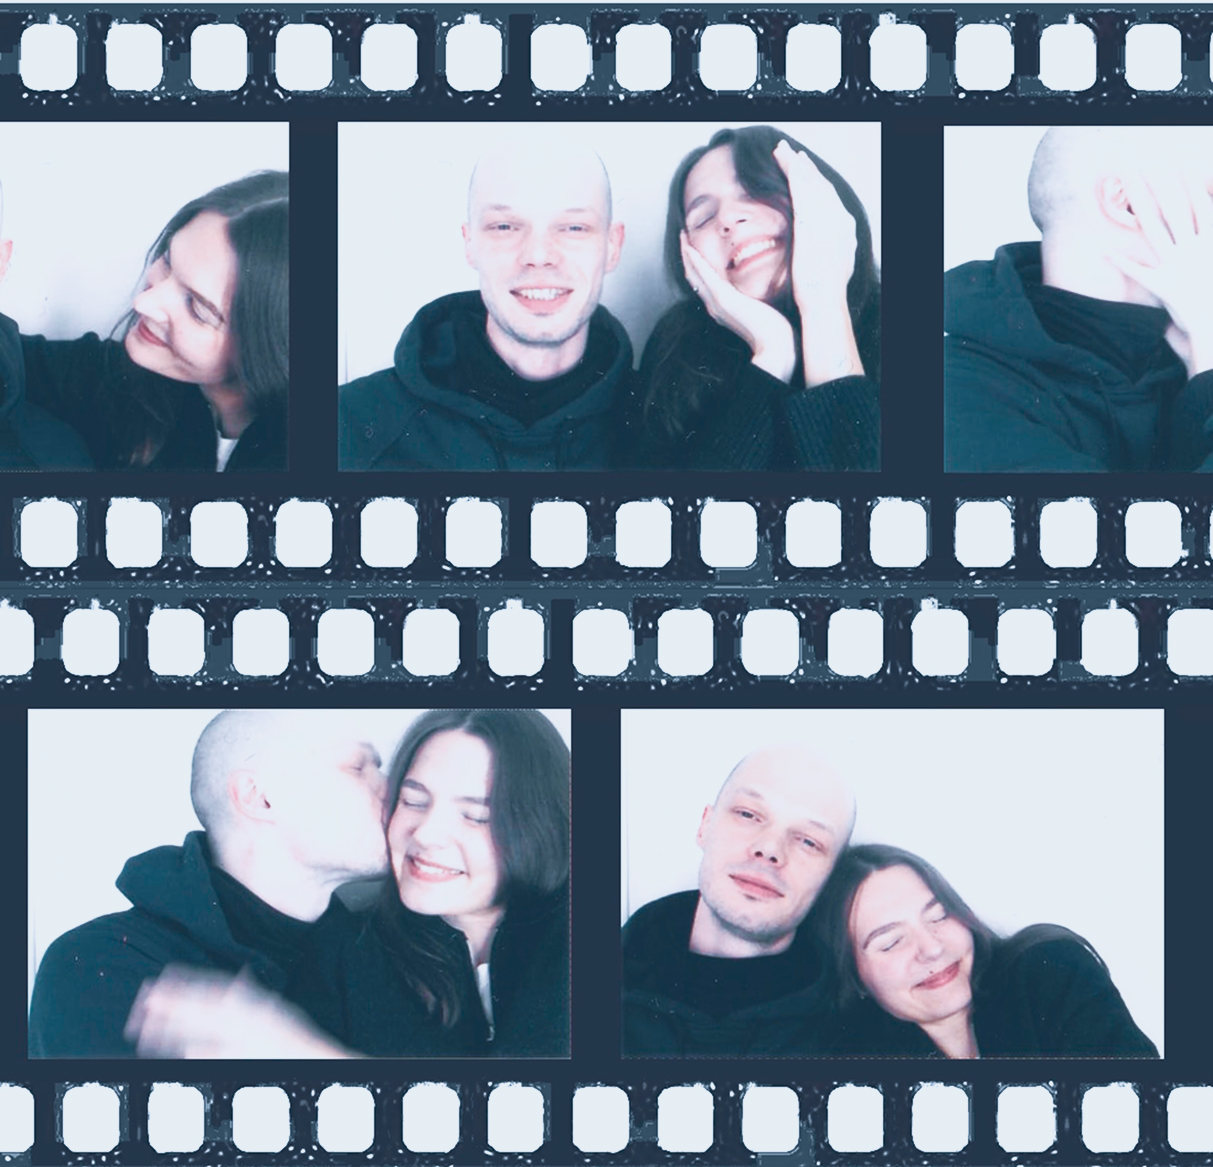
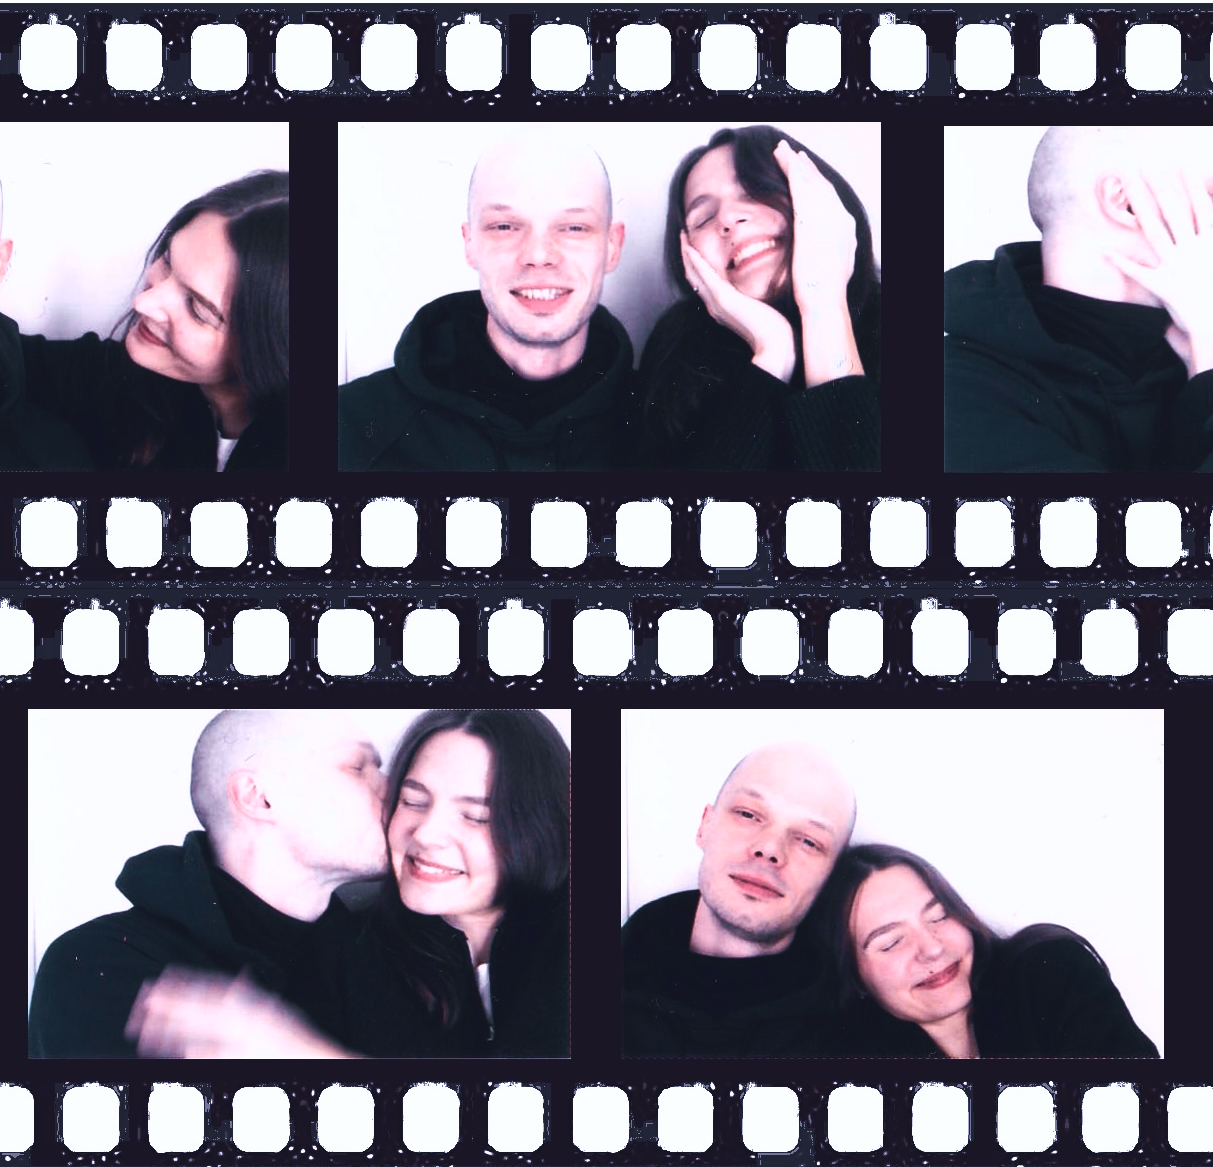
Add files via upload

diff --git a/index.html b/index.html
@@ -310,8 +310,9 @@
         }
 
         .hero-photo {
-            width: 100%;
-            max-height: 800px;
+            align-items: center;
+            width: 700px;
+            max-height: 100%;
             object-fit: cover;
             border-radius: 60px 60px 30px 30px;
             margin-bottom: 30px;
@@ -346,7 +347,7 @@
         <div style="position: absolute; top: 20px; left: -30px;" class="leaf"></div>
         <div style="position: absolute; bottom: 100px; right: -20px;" class="leaf"></div>
 
-        <div class="container" style="padding-top: 40px; padding-bottom: 60px;">
+        <div class="container" style="padding-top: 40px; padding-bottom: 60px; align-items: center; text-align: center;">
             <!-- главное фото (сток, потом замените) -->
             <img class="hero-photo"
                 src="photo2.jpg"
@@ -439,7 +440,10 @@
                         Заранее спасибо!</p>
                 </div>
             </div>
-
+ <!-- главное фото (сток, потом замените) -->
+            <img class="hero-photo"
+                src="ph2.png"
+                alt="жених и невеста">
             <!-- телеграм чат -->
             <div style="display: flex; justify-content: center; margin: 30px 0 20px;">
                 <a href="https://t.me/+BdO4xrCzOpY0ZGQy" class="telegram-link" target="_blank">
